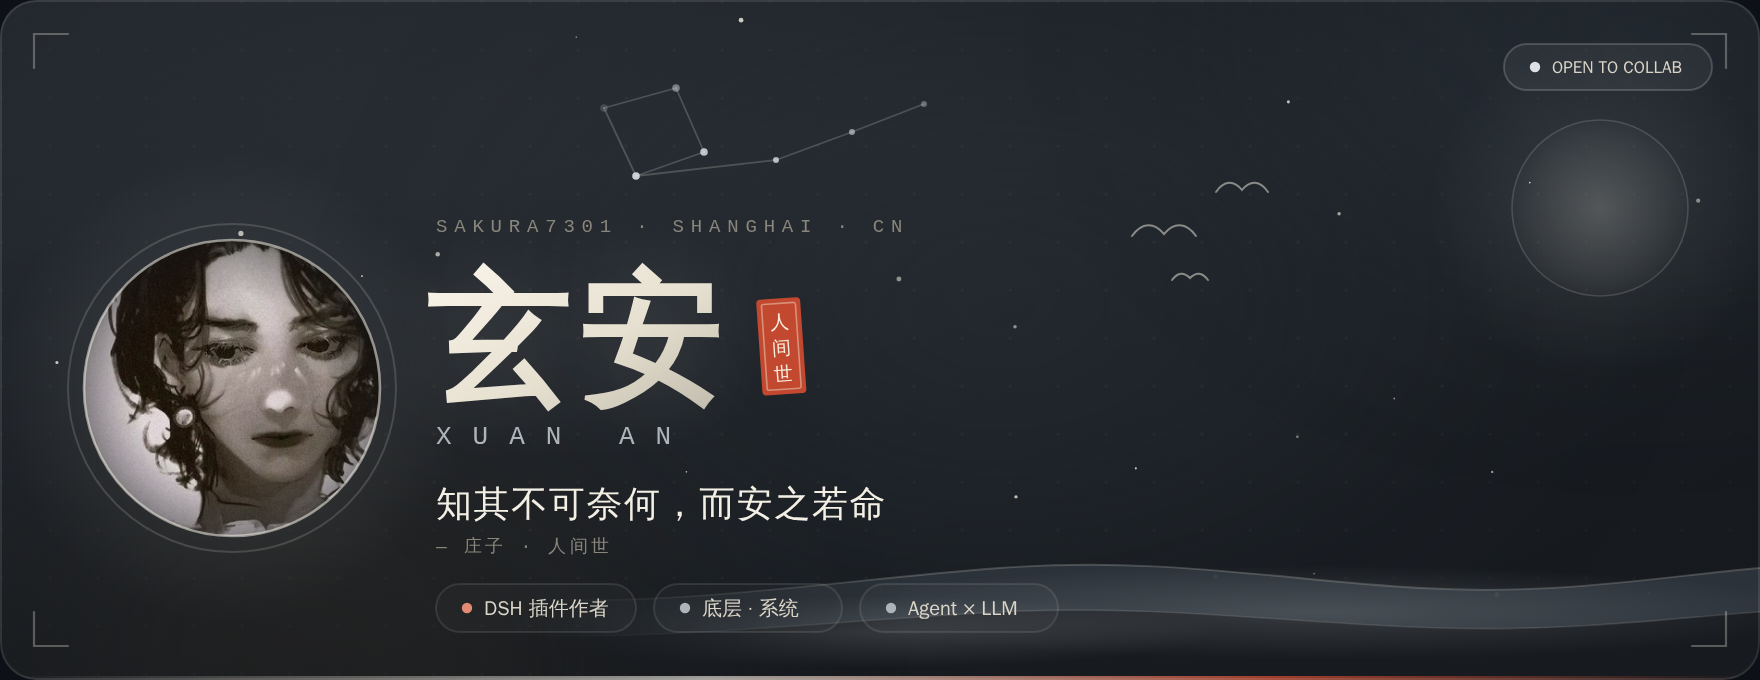
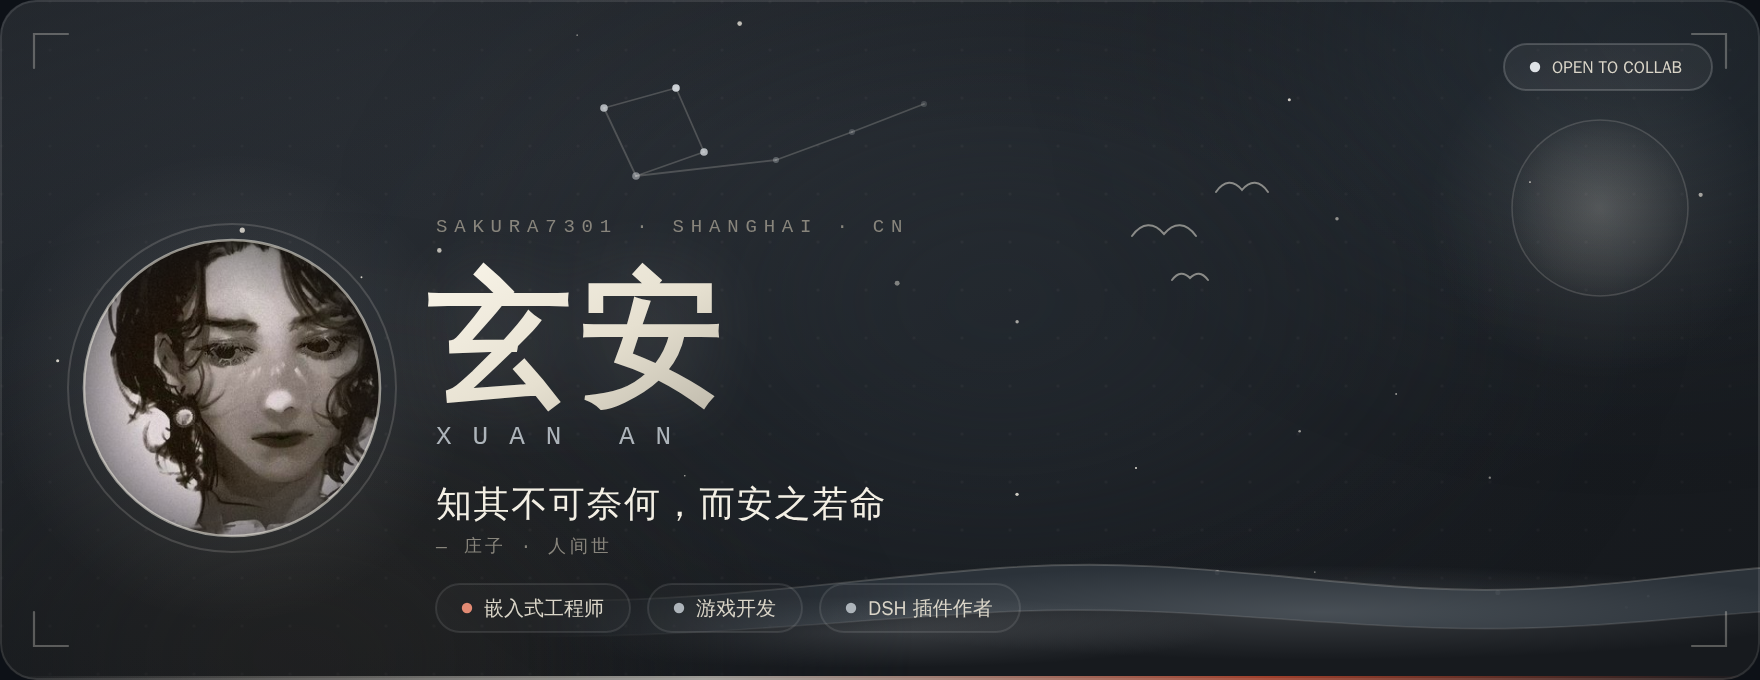
feat: 头像移到左侧、去掉闲章；简介补充嵌入式与游戏开发

diff --git a/extras/preview.html b/extras/preview.html
@@ -30,14 +30,14 @@ sub{font-size:.75em;color:#9198a1}
 <p><sub>01 · ABOUT</sub></p>
 <h2>关于我</h2>
 <blockquote>
-<p>我是 <strong>玄安</strong>，坐标上海。<br>从 C 指针一路折腾到 AI Agent —— 底层够硬，上层够野。</p>
+<p>我是 <strong>玄安</strong>，坐标上海。<strong>嵌入式工程师</strong>，业余喜欢折腾<strong>游戏开发</strong>。<br>从 C 指针一路折腾到 AI Agent —— 底层够硬，上层够野。</p>
 </blockquote>
 <ul>
+<li>🔧 <strong>嵌入式</strong>　C / C++ / 汇编：MQTT 客户端、TLS 实战、协议细节与性能</li>
+<li>🎮 <strong>游戏开发</strong>　业余做玩法原型与技术实验</li>
 <li>🔭 <strong>正在构建</strong>　DSH 插件生态 —— <a href="https://github.com/Sakura7301/MeiHuaYi">梅花易数 MeiHuaYi</a> 已上架</li>
 <li>🧠 <strong>长期折腾</strong>　Multi-Agent / LLM 工程化，以及 <code>chatgpt-on-wechat</code> 生态</li>
-<li>🛠 <strong>偶尔硬核</strong>　C / C++ / 汇编：MQTT 客户端、TLS 实战、在线评测系统</li>
 <li>✍ <strong>学习笔记</strong>　<a href="https://github.com/Sakura7301/Notes">Notes</a> —— 134 ★ 的知识库</li>
-<li>💬 <strong>信条</strong>　　<em>I believe that technology makes dreams greater.</em></li>
 </ul>
 <p><sub>02 · STACK</sub></p>
 <h2>技术栈</h2>
@@ -59,6 +59,7 @@ sub{font-size:.75em;color:#9198a1}
 <li>把 DSH 插件做到真正「开箱即用」——梅花易数之后，还在憋下一个</li>
 <li>啃 Agent 的工程化落地：记忆、工具调用、多智能体协作</li>
 <li>偶尔回到底层，写点 C：MQTT、TLS、协议细节与性能</li>
+<li>业余折腾游戏开发：玩法原型 + 引擎与工具链的小实验</li>
 </ul>
 <p><sub>06 · CONTACT</sub></p>
 <h2>找到我</h2>

diff --git a/SETUP.md b/SETUP.md
@@ -4,7 +4,7 @@
 > 全套素材（SVG 动效横幅、技术栈、作品卡、数据面板、页脚）都已生成好，直接上传即可。
 
 视觉语言：**水墨** —— 墨黑 / 宣纸白 / 银灰，只在印章处点一点朱砂。
-意象：头像（左侧）+ 北斗七星、远山云雾、飞鸟、朱砂闲章「人间世」。
+意象：头像（左侧）+ 北斗七星、远山云雾、飞鸟，一点朱砂做点缀。
 
 ---
 
@@ -98,7 +98,7 @@ git push -u origin main
 | 文件 | 作用 |
 | --- | --- |
 | `README.md` | 主页本体（文字排版、链接、章节） |
-| `assets/hero.svg` | 首屏横幅：水墨夜色 + 远山云雾 + 北斗七星 + 飞鸟 + 头像（左侧圆形）+ 朱砂闲章 |
+| `assets/hero.svg` | 首屏横幅：水墨夜色 + 远山云雾 + 北斗七星 + 飞鸟 + 头像（左侧圆形） |
 | `assets/avatar.jpg` | 头像原图（会被内嵌进 hero.svg，见下方说明） |
 | `assets/stack.svg` | 技术栈（语言 / 工具 / 方向三行胶囊） |
 | `assets/projects.svg` | 精选作品 6 张卡片（带 Star 数、语言、标签） |
@@ -128,8 +128,7 @@ git add . && git commit -m "update profile" && git push
 | 换头像 | 直接覆盖 `assets/avatar.jpg`（正方形，建议 ≥ 320×320），再运行脚本 |
 | 配色（墨 / 纸 / 银 / 朱砂） | 顶部 `const C = { ... }` |
 | 首屏文案：名字、英文名、诗句、三个小标签 | `buildHero()` 里的 `<text>` 与 `items` 数组 |
-| 朱砂印章（现在是「人间世」） | `buildHero()` 里 `<g transform="translate(232 108)...">` 那段 |
-| 头像圆窗位置/大小 | `buildHero()` 顶部 `const av = { x, y, r }` |
+| 头像位置/大小 | `buildHero()` 顶部 `const av = { x, y, r }` |
 | 北斗七星的形状与位置 | `buildHero()` 里的 `bowl` / `handle` 坐标 |
 | 远山形状 / 云雾 | `landscape()` |
 | 「精选作品」展示哪 6 个仓库 | `FEATURED` 数组（按仓库名回填真实 Star 数） |
@@ -145,6 +144,7 @@ git add . && git commit -m "update profile" && git push
 ## 7. 小贴士 & 常见问题
 
 - **头像为什么是内嵌的**：GitHub 把 README 里的 SVG 当图片加载，SVG 内部的**外链图片不会加载**，所以头像是以 base64 直接内嵌进 `hero.svg` 的（约 +30KB，无影响）。换头像 = 换 `assets/avatar.jpg` + 重跑一次脚本。
+- **首屏三个小标签**（嵌入式工程师 / 游戏开发 / DSH 插件作者）在 `buildHero()` 的 `items` 数组里；「关于我」的自我介绍在 `buildReadme()`。
 - **动效是真的**：北斗星呼吸、墨屑浮动、分隔线光点流动、云雾缓慢漂移 —— 全部是 SVG 内部动画，不需要 JS。
 - **推荐暗色模式**：整套水墨是为 GitHub Dark 调的；浅色模式下会看到深色画面浮在白底上。
 - **手机端**：横幅按 880px 设计，手机上会等比缩小，文字会偏小 —— 图片型主页的通病。

diff --git a/README.md b/README.md
@@ -16,14 +16,14 @@
 
 ## 关于我
 
-> 我是 **玄安**，坐标上海。  
+> 我是 **玄安**，坐标上海。**嵌入式工程师**，业余喜欢折腾**游戏开发**。  
 > 从 C 指针一路折腾到 AI Agent —— 底层够硬，上层够野。
 
+- 🔧 **嵌入式**　C / C++ / 汇编：MQTT 客户端、TLS 实战、协议细节与性能
+- 🎮 **游戏开发**　业余做玩法原型与技术实验
 - 🔭 **正在构建**　DSH 插件生态 —— [梅花易数 MeiHuaYi](https://github.com/Sakura7301/MeiHuaYi) 已上架
 - 🧠 **长期折腾**　Multi-Agent / LLM 工程化，以及 `chatgpt-on-wechat` 生态
-- 🛠 **偶尔硬核**　C / C++ / 汇编：MQTT 客户端、TLS 实战、在线评测系统
 - ✍ **学习笔记**　[Notes](https://github.com/Sakura7301/Notes) —— 134 ★ 的知识库
-- 💬 **信条**　　*I believe that technology makes dreams greater.*
 
 <sub>02 · STACK</sub>
 
@@ -52,6 +52,7 @@
 - 把 DSH 插件做到真正「开箱即用」——梅花易数之后，还在憋下一个
 - 啃 Agent 的工程化落地：记忆、工具调用、多智能体协作
 - 偶尔回到底层，写点 C：MQTT、TLS、协议细节与性能
+- 业余折腾游戏开发：玩法原型 + 引擎与工具链的小实验
 
 <sub>06 · CONTACT</sub>
 
